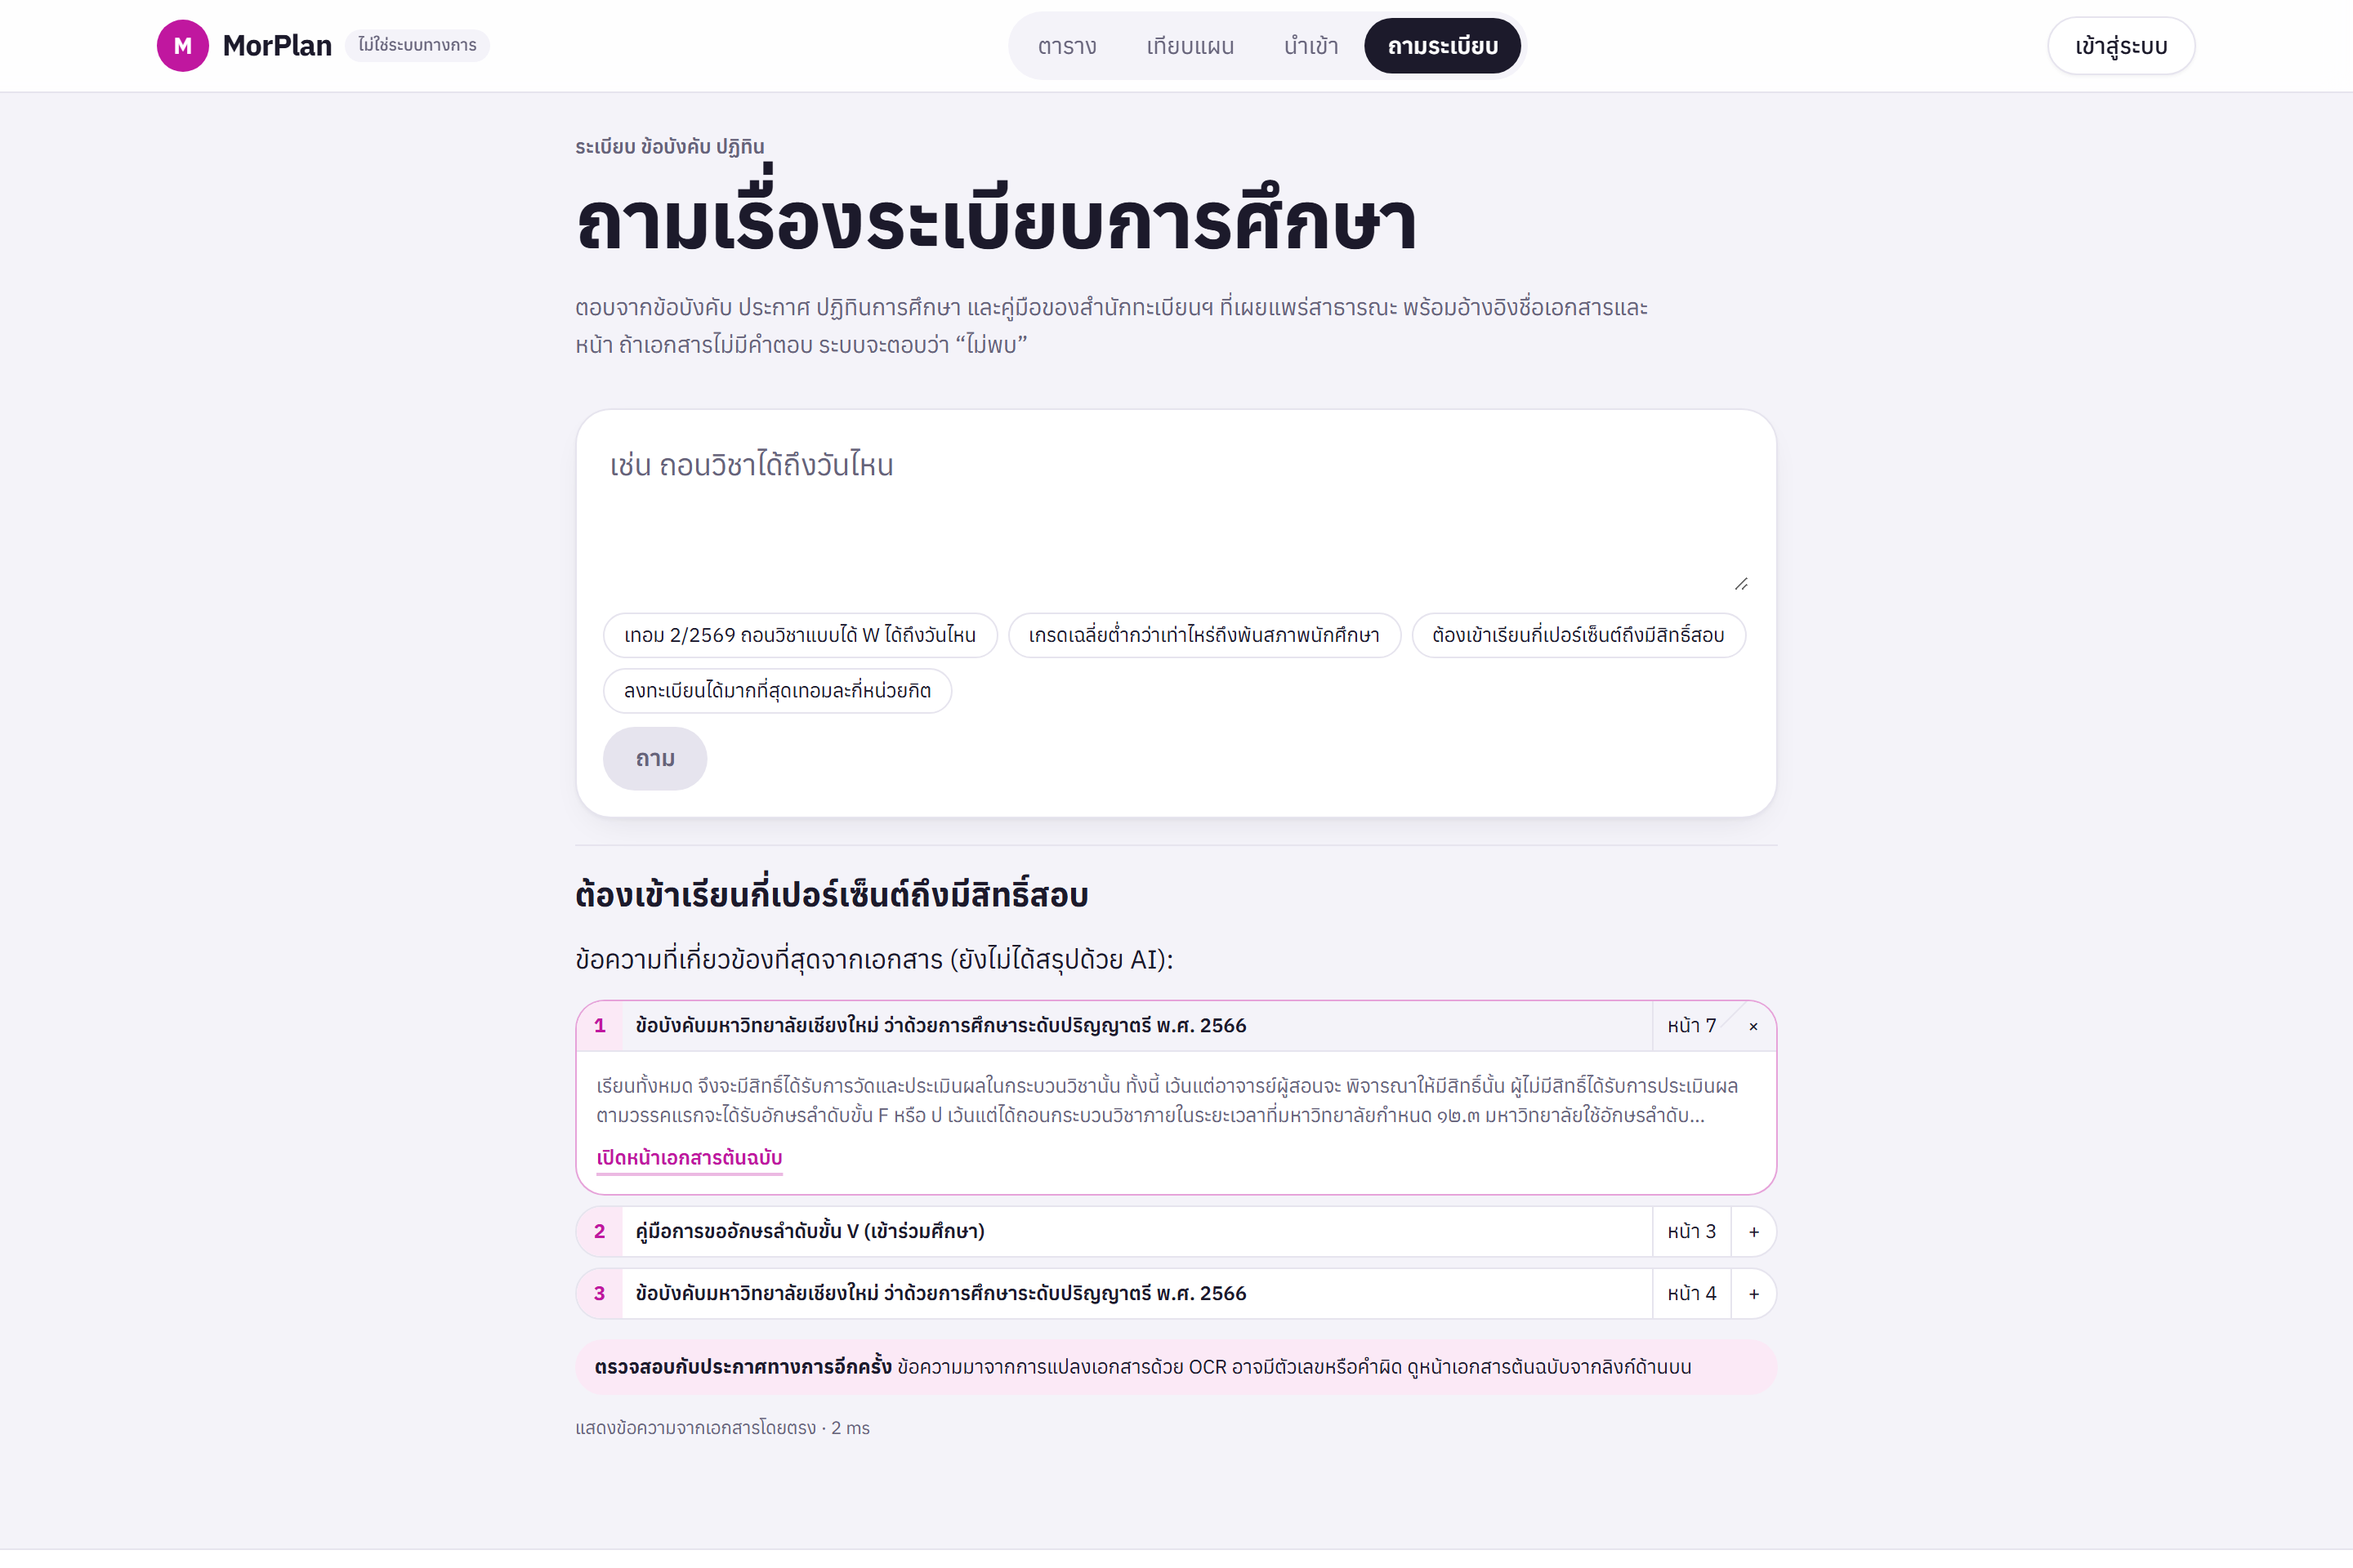
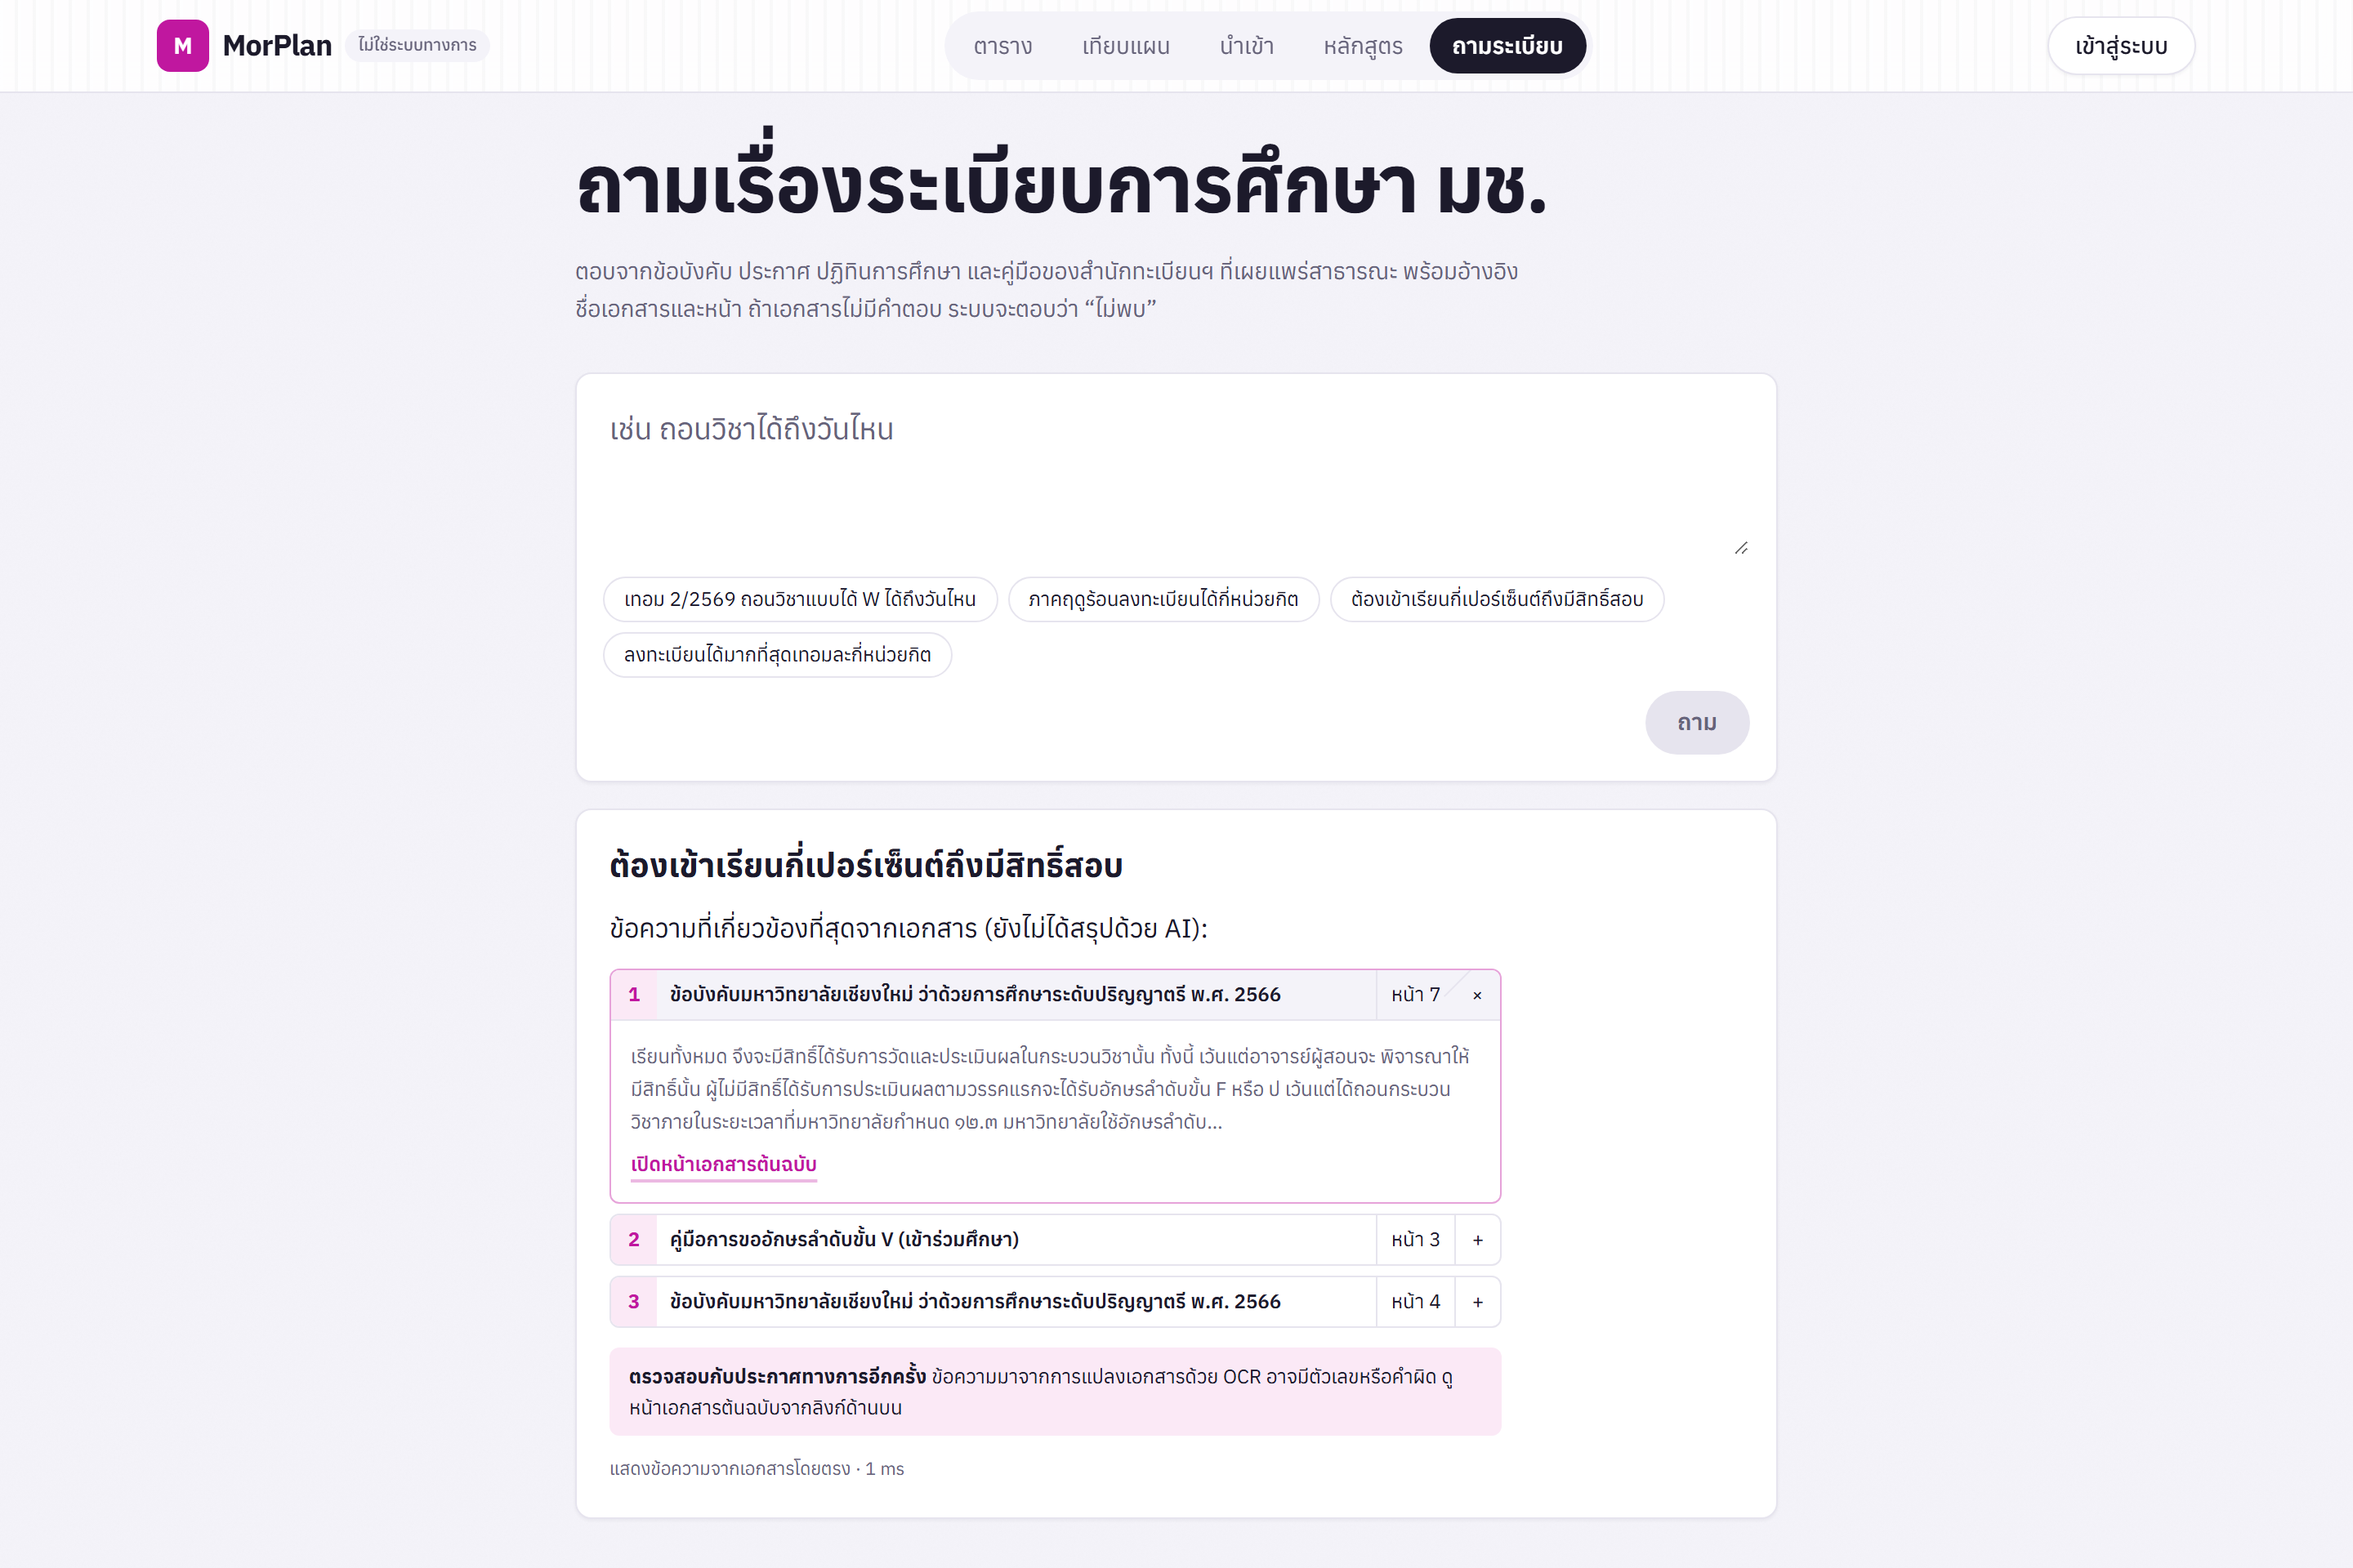
docs: screenshots of the curriculum advisor and fresh ones of every page
README gets a curriculum advisor section (setup from TCAS lists, this term
in the co-op plan, electives, progress) plus feature notes for the advisor
and other-university import; the existing screenshots are retaken from the
live site after the polish pass.

diff --git a/README.md b/README.md
@@ -1,6 +1,6 @@
 # MorPlan
 
-**Plan a CMU timetable by drag and drop, see class and exam clashes instantly, and ask the university's rules in Thai with page citations.**
+**Plan a CMU timetable by drag and drop, see class and exam clashes instantly, ask the university's rules in Thai with page citations, and follow your curriculum term by term.**
 
 **Live:** https://morplan.vercel.app
 
@@ -16,7 +16,19 @@
 |---|---|
 | ![Ask](docs/screenshots/ask.png) | <img src="docs/screenshots/mobile.png" alt="Phone view" width="300"> |
 
-Screenshots are taken from the live site with the built-in demo data: `npx tsx scripts/screenshots.mts`.
+### Curriculum advisor
+
+Pick university, faculty and major from lists (every TCAS university), add the year you entered, and MorPlan finds your curriculum and study plan. Tick what you have passed; it shows this term's courses, overdue ones, the electives you can take and how far along you are.
+
+| Choose from lists, then pick the matching curriculum | This term in the co-op plan |
+|---|---|
+| ![Curriculum setup](docs/screenshots/curriculum-setup.png) | ![Curriculum term view](docs/screenshots/curriculum.png) |
+
+| Electives you can still take | Progress by category and term |
+|---|---|
+| ![Electives](docs/screenshots/curriculum-electives.png) | ![Progress](docs/screenshots/curriculum-progress.png) |
+
+Screenshots are taken from the live site with the built-in demo data and the shared CMU computer science curriculum: `npx tsx scripts/screenshots.mts`.
 
 ## What it does
 
@@ -24,6 +36,8 @@ Screenshots are taken from the live site with the built-in demo data: `npx tsx s
 - **Clash checks.** Class meetings (lecture and lab are checked separately), midterms, finals, and the same course placed twice are all flagged. Exam slots come from the Registration Office's *public* exam timetable.
 - **Plans A–E.** Compare them side by side: credits, clashes, free days, earliest and latest class. Share a read-only link, or export `.ics` (weekly series that skips midterm weeks, plus exam events) or a PNG.
 - **Rule Q&A.** Answers questions about the undergraduate regulations, exam and discipline rules, fees, the 2569 academic calendar and the Registration Office's guides. Every answer shows the document title and page with a link to the official PDF. If the answer isn't in the documents it says **"ไม่พบ"**, and every answer ends with "ตรวจสอบกับประกาศทางการอีกครั้ง".
+- **Curriculum advisor.** `/curriculum` asks for university, faculty, major and entry year. Faculties and majors come as lists for every university on TCAS, with a "type it yourself" way out. MorPlan looks for a curriculum someone has already confirmed; if there is none, it finds the faculty's curriculum page or reads a link, PDF or pasted text with AI, shows what it read for you to check, and drops any course code that is not in the document. Then it shows this term's courses from your study plan (normal, co-op or fast track), courses left over from earlier terms, the electives you can still take, minors and your credits by category. Tick what you have passed; MorPlan never asks for reg passwords or grades.
+- **Other universities.** `/import` also takes another university's registration page. AI reads the pasted page into sections, and every course code and time is checked against the text before it is kept.
 - **Account (optional).** Sign in with email or Google to open the same plans on every device. `/account` lets you set a display name, see your sign-in methods, change or set a password (the current one is asked first, and other devices are signed out), sign out everywhere, and delete the account with all saved plans. Every password field has a show/hide button.
 
 ## Where the data comes from (and what MorPlan refuses to do)
@@ -118,4 +132,4 @@ npm run dev -- -p 3100
 - Deployed 2026-11-04 to Vercel (`morplan.vercel.app`) with a hosted Supabase project (Auth + Postgres) in ap-southeast-1. The Playwright suite runs against it with `E2E_BASE_URL=https://morplan.vercel.app npm run test:e2e`.
 - No real users or usage numbers yet; anonymous counters (imports, shares, questions) are in place.
 - The reg import parser was written without a real logged-in results page, because that page isn't public. A saved sample in `samples/` will become a test fixture.
-- Curriculum advisor (`/curriculum`, branch `feat/curriculum`, not deployed): set up a curriculum from a shared record or a university web page / PDF / pasted text, term view, progress, electives, minors. Checked on real documents locally (CMU seed, KMUTT page); production seed and deploy are the owner's call. See `HANDOFF.md`.
+- Curriculum advisor (`/curriculum`) deployed 2026-11-15 with the CMU computer science curriculum (64+), its major electives and the CMU minors list seeded on production; faculty and major lists from TCAS. Other curricula are read on demand. See `HANDOFF.md`.
